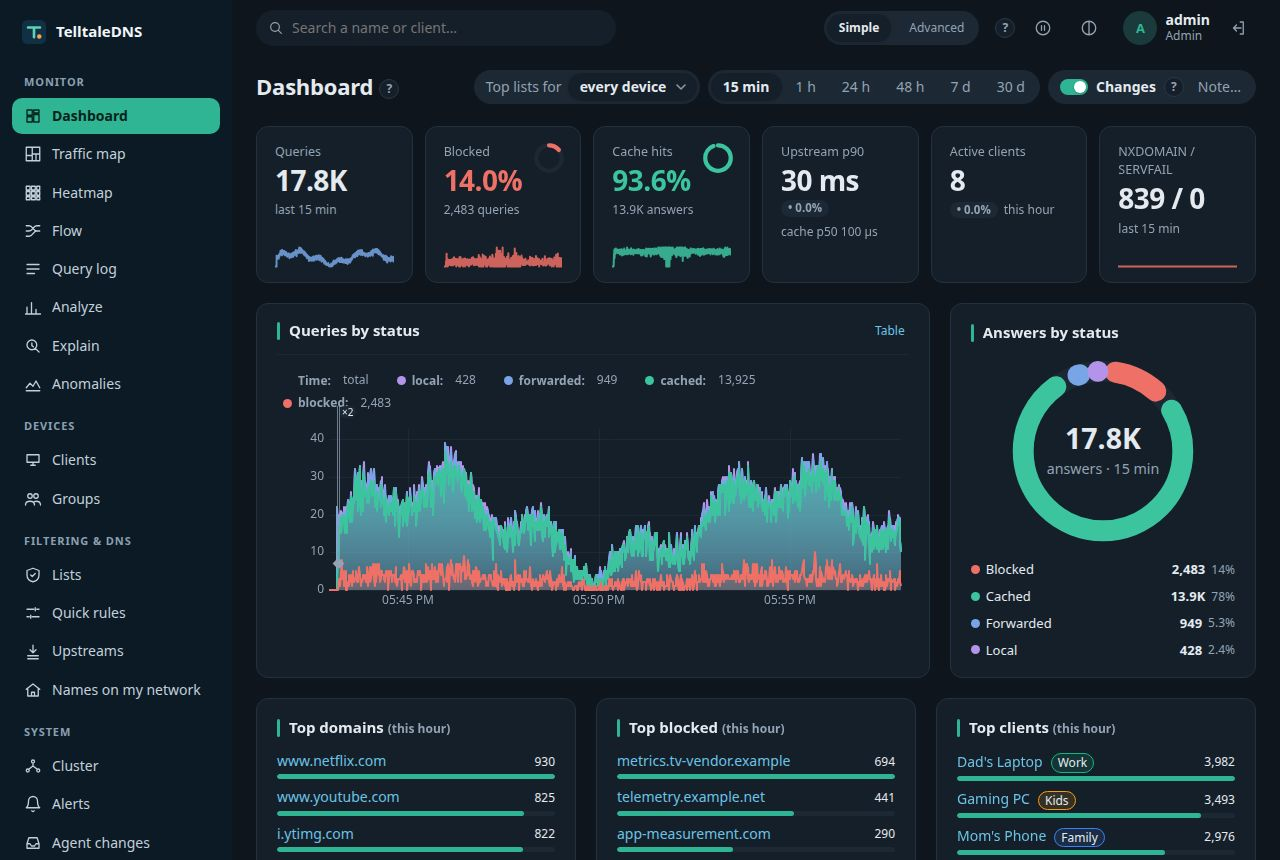
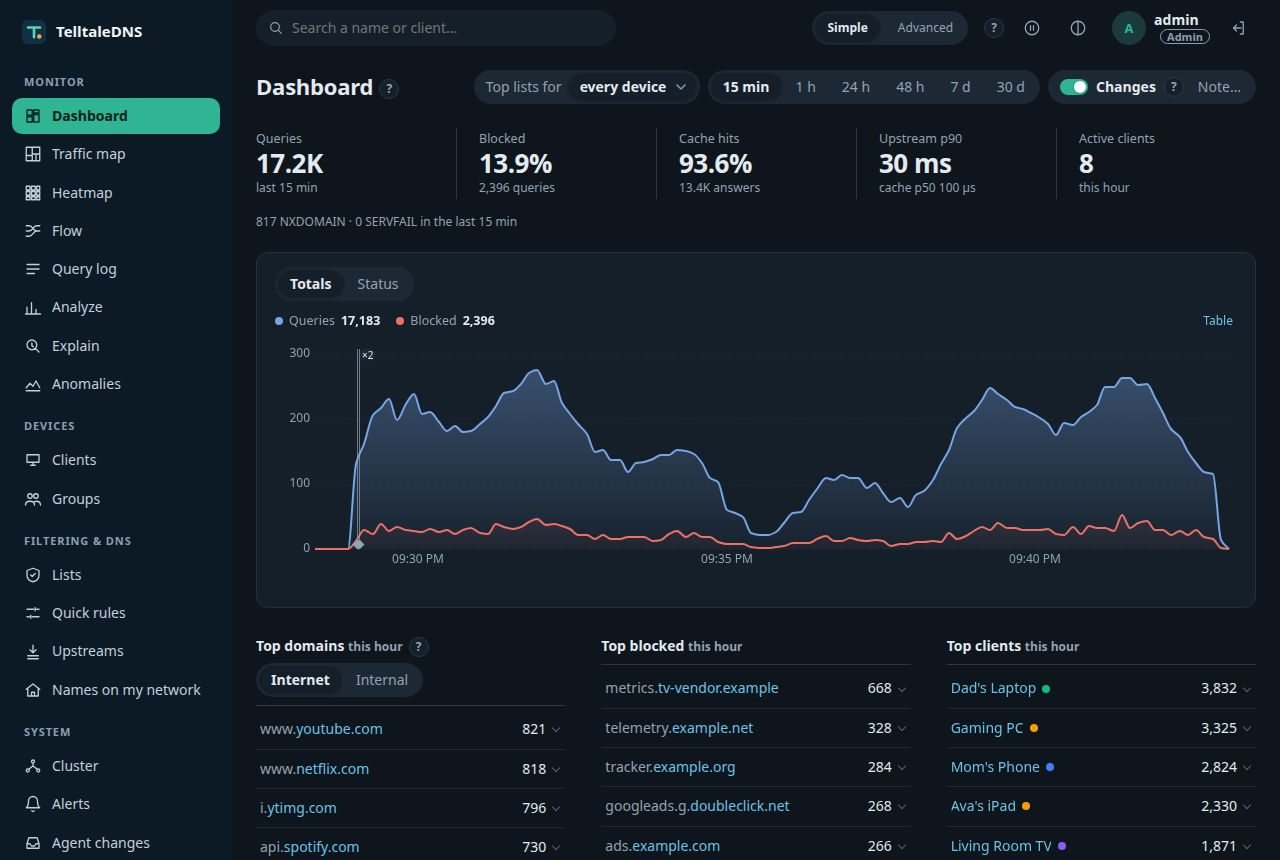
docs: the README and site dashboard screenshots show the new dashboard [API-005]
Regenerated from the made-up demo network by the tracked harness (ui/tests/demo, dashboard shots only),
with their alt text and captions on the README, the home page, the monitoring page and the tour.

The harness now leaves the dashboard's change arrows out: the demo network is minutes old, so the
period before it holds a few stray queries and the arrows read "up 14,099%". The request for the
previous period fails in the pictures' browser, and the page shows no change.

diff --git a/site/tour.html b/site/tour.html
@@ -23,7 +23,7 @@
 <section id="see">
   <h2>See what's happening</h2>
   <div class="shots">
-    <figure><img src="assets/shots/dashboard-light.jpg" alt="Dashboard: KPI tiles with their change and sparklines, queries by status, and the sidebar" width="1280" height="860" loading="lazy"><figcaption>Dashboard: queries, blocked share, cache hits, latency, answers by status, and the top lists (a made-up demo network)</figcaption></figure>
+    <figure><img src="assets/shots/dashboard-light.jpg" alt="Dashboard: the numbers that matter with their change, one chart of queries and blocked over time, and the sidebar" width="1280" height="860" loading="lazy"><figcaption>Dashboard: queries, blocked share, cache hits, latency, one chart that gives exact figures on hover, and the top lists (a made-up demo network)</figcaption></figure>
     <figure><img src="assets/shots/dashboard-dark.jpg" alt="Dashboard in the dark theme" width="1280" height="860" loading="lazy"><figcaption>Dashboard (dark theme)</figcaption></figure>
     <figure><img src="assets/shots/queries-light.jpg" alt="Query log with filters" width="1280" height="860" loading="lazy"><figcaption>Query log: every question, filterable, with timings</figcaption></figure>
     <figure><img src="assets/shots/why-light.jpg" alt="Why was this blocked: the list, its line number, and the rule" width="1280" height="860" loading="lazy"><figcaption>"Why?": the list and line behind every decision</figcaption></figure>

diff --git a/site/index.html b/site/index.html
@@ -160,7 +160,7 @@
   <h2>Built into the binary</h2>
   <p class="muted">A dashboard, a searchable query log with a "Why?" on every row, devices and groups, lists, upstreams, local names, and the cluster, in light or dark, on a desktop or a phone. <a href="tour.html">Take the tour →</a></p>
   <div class="shots">
-    <figure><img src="assets/shots/dashboard-light.jpg" alt="Dashboard: KPI tiles with changes and sparklines, and queries by status" width="1280" height="860" loading="lazy"><figcaption>Dashboard (a made-up demo network)</figcaption></figure>
+    <figure><img src="assets/shots/dashboard-light.jpg" alt="Dashboard: the numbers that matter with their change, one chart that gives exact figures on hover, and the top lists" width="1280" height="860" loading="lazy"><figcaption>Dashboard (a made-up demo network)</figcaption></figure>
     <figure><img src="assets/shots/queries-dark.jpg" alt="Query log with filters, in the dark theme" width="1280" height="860" loading="lazy"><figcaption>Query log (dark theme)</figcaption></figure>
     <figure><img src="assets/shots/cluster-light.jpg" alt="Cluster page: a live topology of a Kubernetes site and a Pi" width="1280" height="860" loading="lazy"><figcaption>Cluster topology (example data)</figcaption></figure>
   </div>

diff --git a/ui/tests/demo/shots.spec.ts b/ui/tests/demo/shots.spec.ts
@@ -22,6 +22,13 @@ async function capture(browser: Browser, theme: 'light' | 'dark', width: number,
     delete info.clientIpsMasked;
     await route.fulfill({ response: res, json: info });
   });
+  // The demo network is minutes old, so the period before it has a few stray queries and the
+  // dashboard's change arrows read as nonsense ("up 14,099%"). The pictures leave them out: the
+  // request for the previous period fails, and the page shows no change.
+  await page.route('**/api/v1/stats/summary*', async (route) => {
+    if (new URL(route.request().url()).searchParams.has('to')) await route.abort();
+    else await route.continue();
+  });
   await page.goto('/');
   await page.getByLabel('Username', { exact: true }).fill('admin');
   await page.getByLabel('Password', { exact: true }).fill('correct horse battery');

diff --git a/site/monitoring.html b/site/monitoring.html
@@ -23,7 +23,7 @@
       <a class="btn" href="tour.html">See the UI</a>
     </div>
   </div>
-  <figure class="figure"><img src="assets/shots/dashboard-light.jpg" alt="The dashboard: KPI tiles, queries by status over time, answers by status, and the top domains, blocked names, and devices" width="1280" height="860" loading="lazy"></figure>
+  <figure class="figure"><img src="assets/shots/dashboard-light.jpg" alt="The dashboard: the numbers that matter with their change, one chart of queries and blocked over time, and the top domains, blocked names, and clients" width="1280" height="860" loading="lazy"></figure>
 </section>
 
 <section>

diff --git a/README.md b/README.md
@@ -15,7 +15,7 @@ Every connection on your network starts with a DNS lookup. TelltaleDNS answers i
 <p align="center">
   <picture>
     <source media="(prefers-color-scheme: dark)" srcset="docs/images/dashboard-dark.jpg">
-    <img alt="The TelltaleDNS dashboard: queries, blocked share, cache hits, upstream latency, and active clients; queries by status over 15 minutes and answers by status; and the top domains, blocked names, and devices with their groups" src="docs/images/dashboard-light.jpg" width="900">
+    <img alt="The TelltaleDNS dashboard: queries, blocked share, cache hits, upstream latency, and active clients as plain numbers with their change; one chart of queries and blocked over 15 minutes with a change marker; and the top domains, blocked names, and clients with their groups" src="docs/images/dashboard-light.jpg" width="900">
   </picture>
   <br>
   <sub>The dashboard on a demo network. Every device, name, and address in it is made up.</sub>
